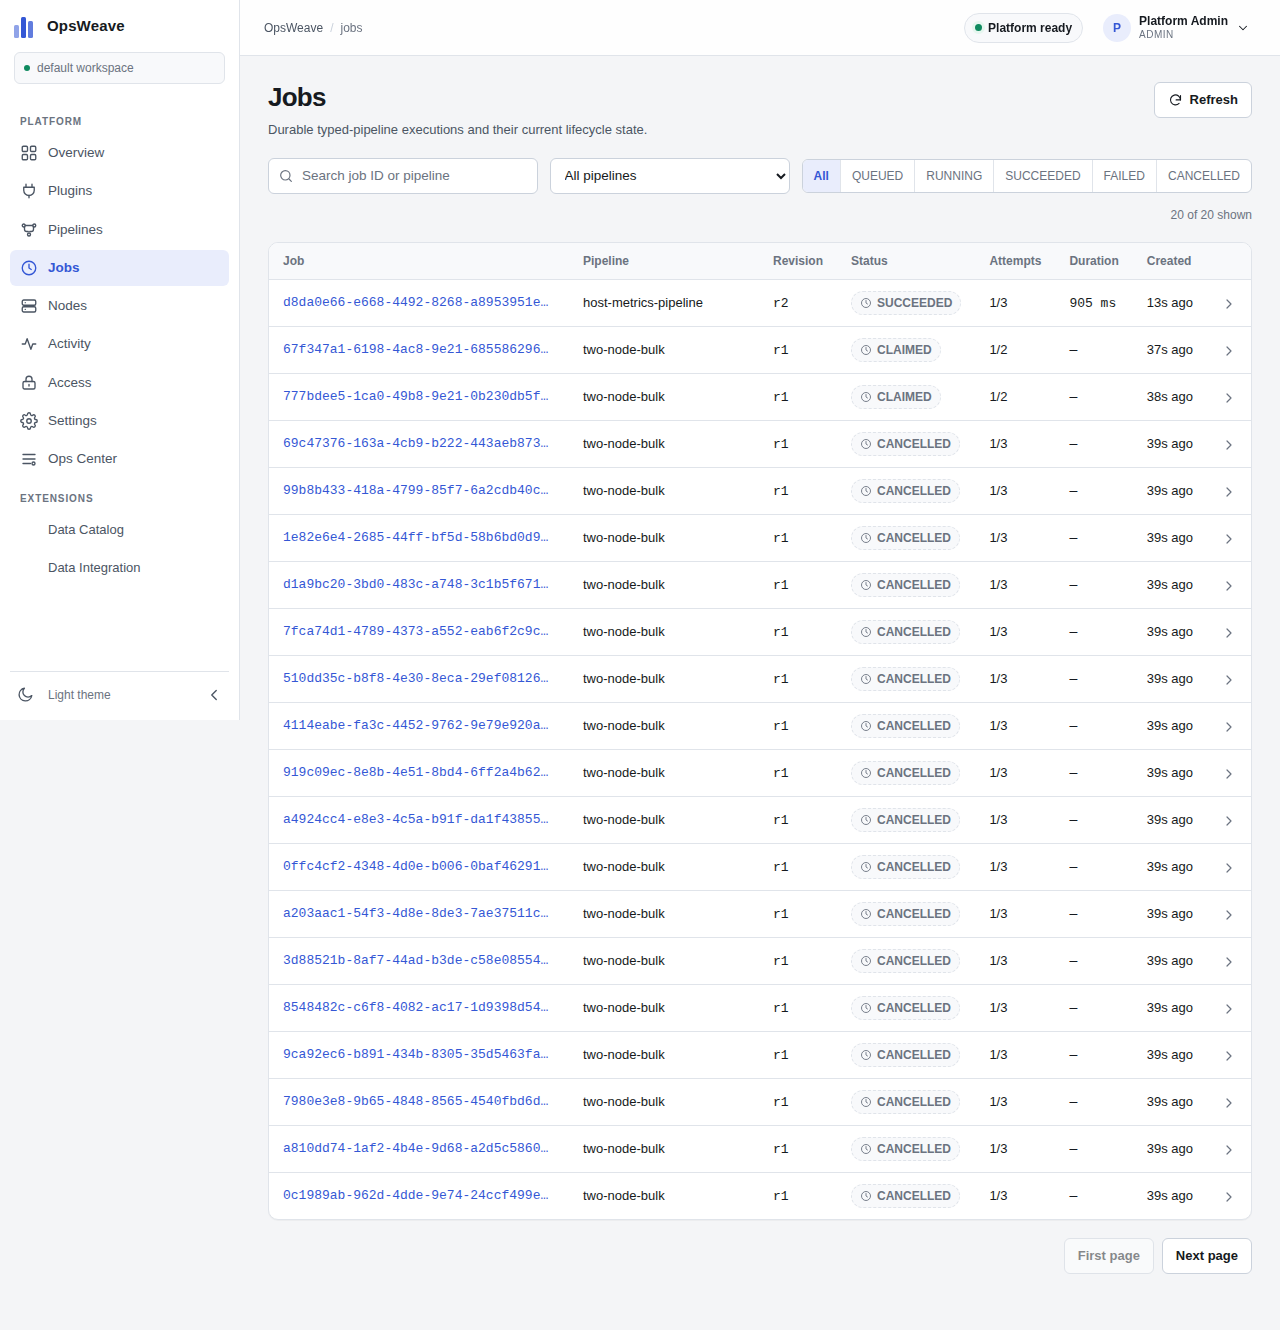
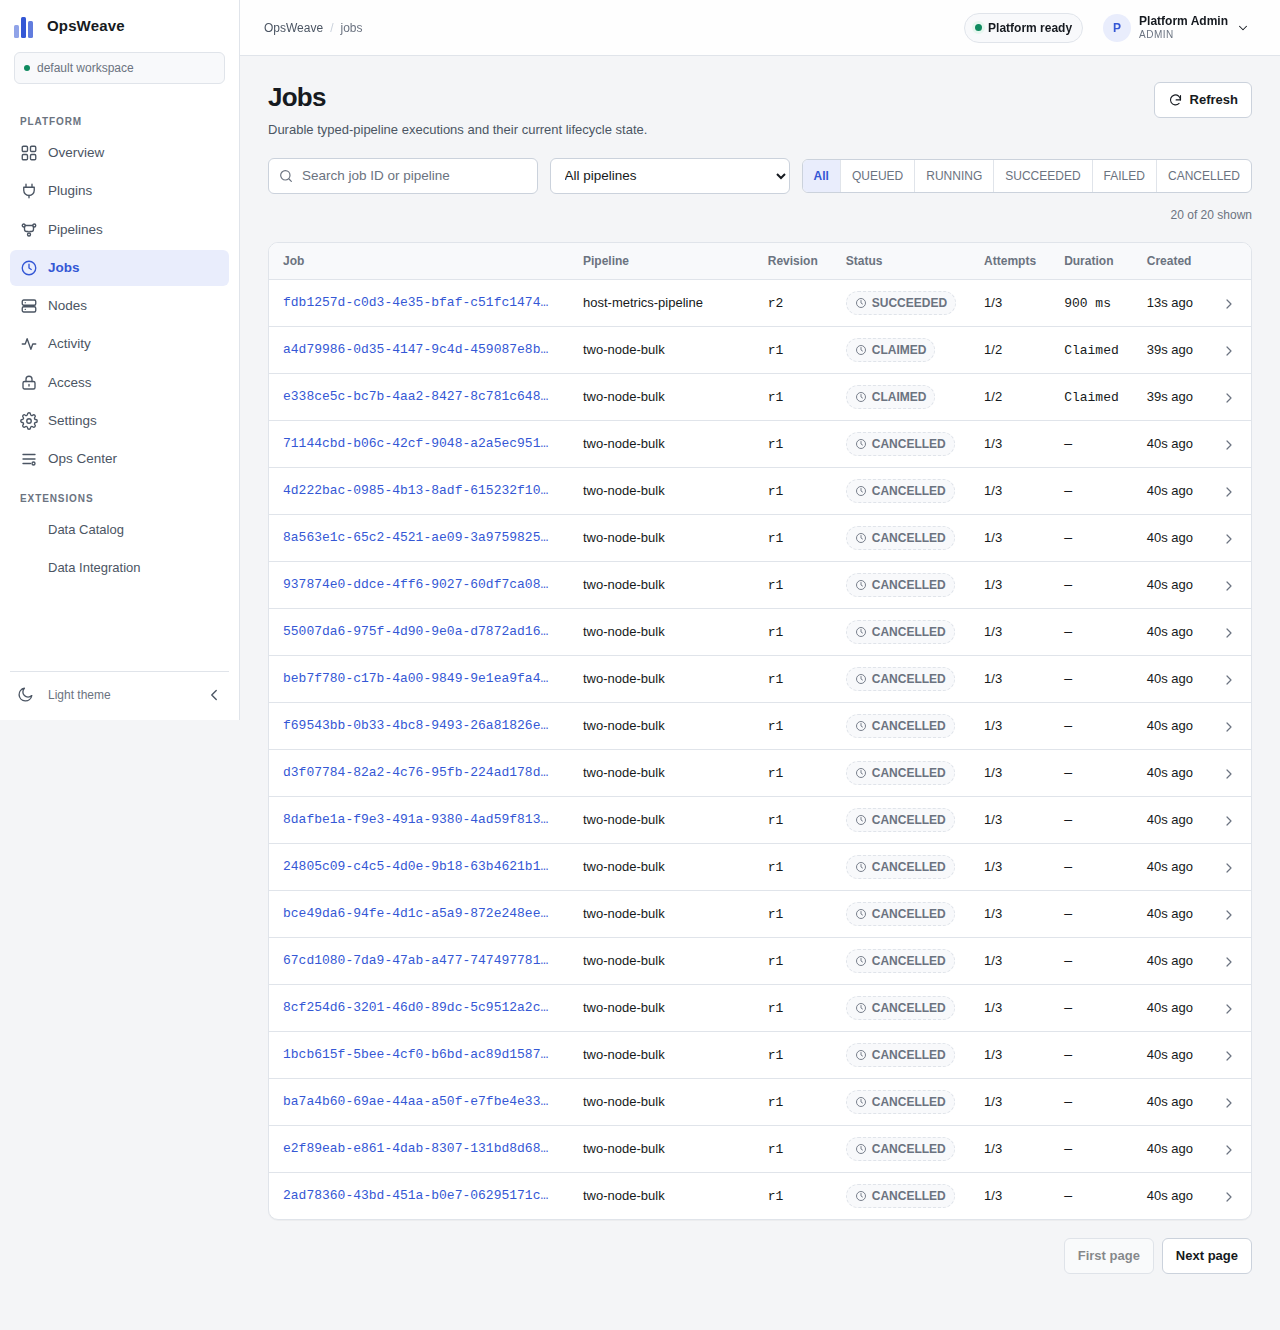
docs(acceptance): final product acceptance evidence

diff --git a/docs/acceptance/005-final-product-acceptance.md b/docs/acceptance/005-final-product-acceptance.md
@@ -1,0 +1,62 @@
+# 0.0.4 Final Product Acceptance
+
+Code HEAD: `5ed5933b59659dbb60592f3638edc2485ddbfc74`
+Branch: `feat/0.0.4-final-product-acceptance`
+PR: Draft, base `feat/0.0.4-ui-redesign`.
+
+## Delivered
+
+- Shared `getPipelineExecutionOrder()`: Kahn topology from IR edges, deterministic
+  node-ID tie-break, duplicate-edge diagnostics, cycle/disconnected/multiple
+  source/sink rejection. Pipeline Detail and Studio both use it.
+- Studio Horizontal / Vertical layout modes; Vertical changes handles to
+  Top/Bottom and uses deterministic single-column coordinates. Auto Layout and
+  layout-mode changes never mutate the persisted IR or Digest.
+- Measurement-aware initial fit: ResizeObserver + requestAnimationFrame waits for
+  non-zero container and measured node elements, is cancelled on unmount, and
+  does not fight user pan/zoom.
+- Job duration semantics extracted to `jobDuration.ts`; QUEUED, CLAIMED, RUNNING,
+  SUCCEEDED, FAILED, CANCELLED, missing and invalid timestamps covered by unit
+  tests. Execution window still includes retry/takeover gaps and is labelled as
+  such, not summed CPU time.
+- Structured Draft Conflict diff with fail-closed handling for unknown values;
+  audited numeric fields recognized; secret-disclosure regression test added.
+- Mobile Studio: Nodes/Canvas switch, node list, Inspector access, toolbar wraps
+  instead of clipping, no page-level horizontal overflow.
+- A11y: keyboard copy button for Job ID, node delete confirmation, shared Modal
+  focus trap/Escape/restore, labels, aria labels.
+- Client-side branch-join topology rejection, persisted IR array-order preservation
+  across visual layout, and terminal-state duration guards (from paired commits).
+
+## CI evidence
+
+Final code SHA `5ed5933`:
+
+- Data Foundation `40332907493` attempt 1: **SUCCESS**
+- Standard CI `40332907425`: **SUCCESS**
+- Runtime dispatched `40336239148` at this SHA.
+- Earlier same-code family `9856ee2`: Data `40319832045` attempts 1 and 3
+  **SUCCESS**; runtime `40322762979` **SUCCESS**. Attempt 2 failed in an unrelated
+  Catalog/Integration screenshot locator timeout.
+- Legacy E2E `PASS=21 FAIL=0`.
+
+Known harness flake: mobile draft-save journey was reduced to node-list/inspector
+smoke after a 60s timeout in CI; full mobile save/publish remains PARTIAL.
+
+## Gate summary
+
+| Gate | Status |
+|---|---|
+| Pipeline execution order shared | PASS |
+| Horizontal / vertical layout modes | PASS |
+| 6-node visual layout | PASS (fit/pan; small text at fitted zoom) |
+| 32/64-node layout | NOT_RUN |
+| Measurement-aware fit | PASS in CI |
+| Double-tab draft conflict | PASS in final CI |
+| Duration status matrix | PASS unit tests / API DTO |
+| Mobile node list + inspector | PASS |
+| Mobile save/publish journey | PARTIAL |
+| A11y | PARTIAL |
+| Performance benchmark | NOT_RUN |
+| Pixel snapshot baseline | NOT_RUN |
+| Stacked PR split | NOT_PERFORMED (stacked review documented) |
